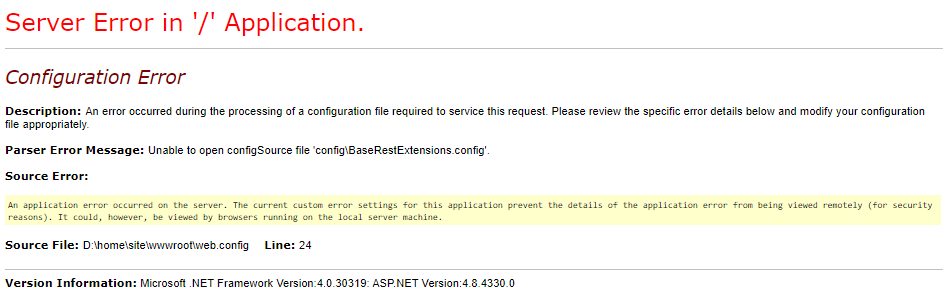
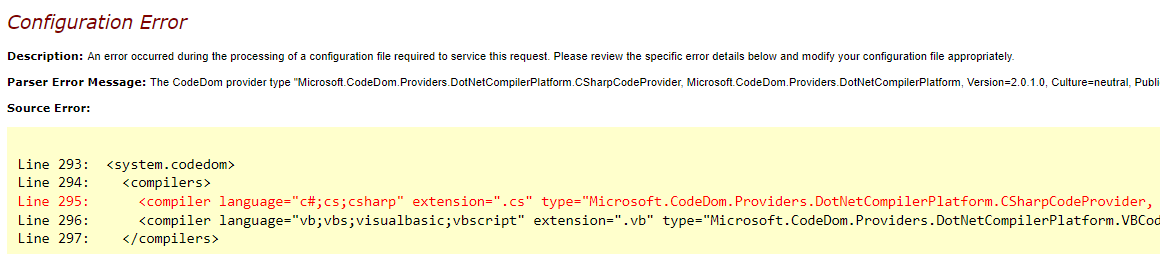
GitBook: [#81] No subject

diff --git a/SUMMARY.md b/SUMMARY.md
@@ -27,6 +27,7 @@
   * [Adding content to the backoffice](coding/umbraco/adding-content-to-the-backoffice.md)
   * [Pagination](coding/umbraco/pagination.md)
   * [Creating YYYY/MM folders](coding/umbraco/creating-yyyy-mm-folders.md)
+  * [Configuration Error - CodeDom](coding/umbraco/configuration-error-codedom.md)
 * [C Sharp](coding/c-sharp/README.md)
   * [Useful Links](coding/c-sharp/.net-framework-source-code.md)
   * [Regex](coding/c-sharp/regex.md)

diff --git a/coding/umbraco/rosyln-error.md b/coding/umbraco/rosyln-error.md
@@ -10,7 +10,5 @@ Within the Package Manager Console in Visual Studio type the following - **Remem
 
 `Update-Package Microsoft.CodeDom.Providers.DotNetCompilerPlatform -r`
 
-![](../../.gitbook/assets/rosylnerror.png)
-
-
+![](../../.gitbook/assets/rosylnError.png)
 

diff --git a/coding/umbraco/configuration-error-codedom.md b/coding/umbraco/configuration-error-codedom.md
@@ -1,0 +1,9 @@
+---
+description: YSOD with reference to CodeDom
+---
+
+# Configuration Error - CodeDom
+
+![](<../../.gitbook/assets/image (2).png>)
+
+This is usually due to your connectionstring being wonky!&#x20;
